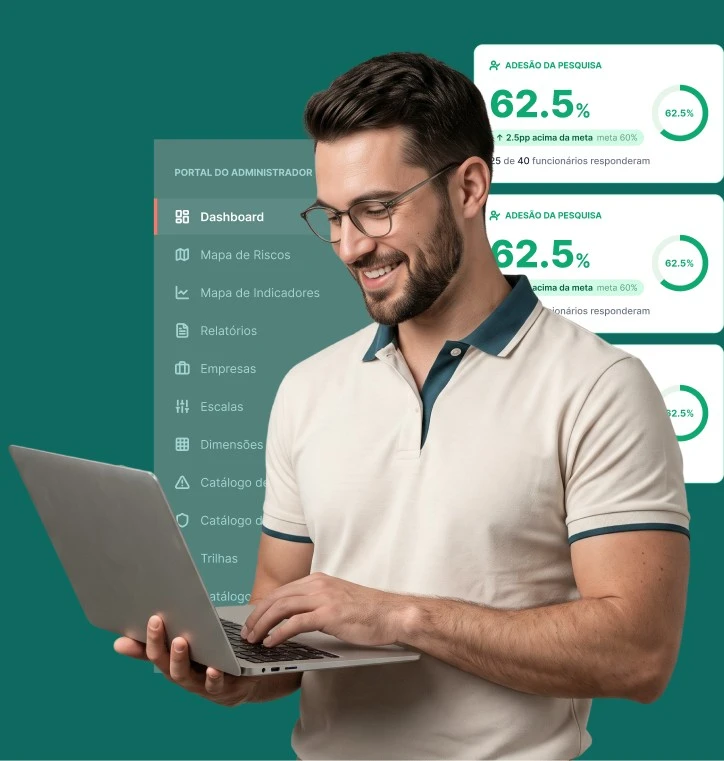
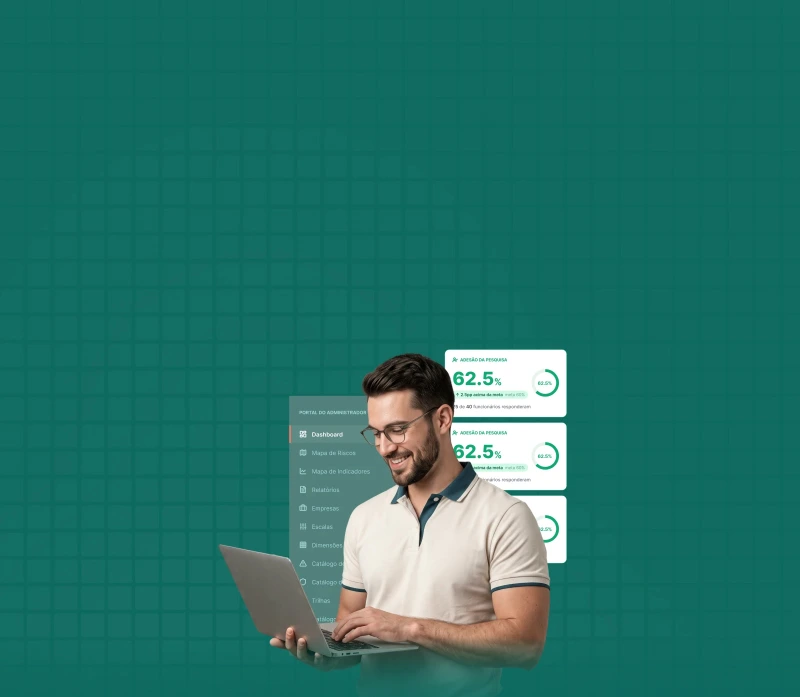
Troca imagem da hero mobile pelo export do Figma (node 2825:857)
Nova imagem (800x697, pessoa + dashboard com fundo teal já embutido,
igual ao design) substitui o composto anterior. Corrige também um bug
de layout exposto pela troca: sem uma regra explícita de height:auto,
o height="697" do próprio HTML virava um hint de altura fixa em px
(ignorando a largura de 85% definida em CSS), esticando a caixa da
imagem muito além do necessário e empurrando a pessoa para fora da
tela no mobile.

Claude-Session: https://claude.ai/code/session_01CiyMTxVjrXGsaEHonQwbqa

diff --git a/css/sections.css b/css/sections.css
@@ -212,6 +212,14 @@
     top: auto;
     width: 85%;
     max-width: 420px;
+    /* Without this, the element's own width/height HTML attributes
+       (used for the image's intrinsic size and to avoid layout shift
+       while loading) get applied as literal presentational CSS height
+       — 697px, regardless of the 85%-driven width above — since no
+       other rule here sets height. That stretched the box far past the
+       image's real proportional height, pushing the person off-screen
+       below the fold instead of scaling down with the width. */
+    height: auto;
     margin: 32px auto 0;
     display: block;
   }

diff --git a/index.html b/index.html
@@ -20,7 +20,7 @@
      HERO
      ========================================================= -->
 <header class="hero">
-  <img class="hero__figure" src="assets/img/hero-figure.webp" alt="Portal do administrador SIS com indicadores de adesão da pesquisa" width="724" height="761" />
+  <img class="hero__figure" src="assets/img/hero-figure.webp" alt="Portal do administrador SIS com indicadores de adesão da pesquisa" width="800" height="697" />
 
   <div class="hero__inner">
     <div class="hero__copy">

diff --git a/ASSETS.md b/ASSETS.md
@@ -9,7 +9,7 @@ As fotos e ilustrações abaixo vieram do arquivo do Figma:
 | Arquivo | Onde aparece |
 |---|---|
 | `assets/icons/logo-sis.png` | Logo "SIS Mental Health" (hero e footer) |
-| `assets/img/hero-figure.webp` | Hero mobile — grupo pessoa + dashboard, contido abaixo do texto centralizado (≤1180px) |
+| `assets/img/hero-figure.webp` | Hero mobile — grupo pessoa + dashboard com fundo teal já embutido (exportado direto do Figma, node 2825:857, 800x697), contido abaixo do texto centralizado (≤1180px) |
 | `assets/img/hero-bg-notebook.webp` | Hero notebook (1181-1919px) — fundo completo enviado pelo usuário, já com o grupo pessoa+dashboard |
 | `assets/img/hero-bg-wide.webp` | Hero wide (≥1920px) — fundo completo enviado pelo usuário, já com o grupo pessoa+dashboard |
 | `assets/img/reuniao-corporativa.webp` | Seção 02 — imagem ao lado do texto |
